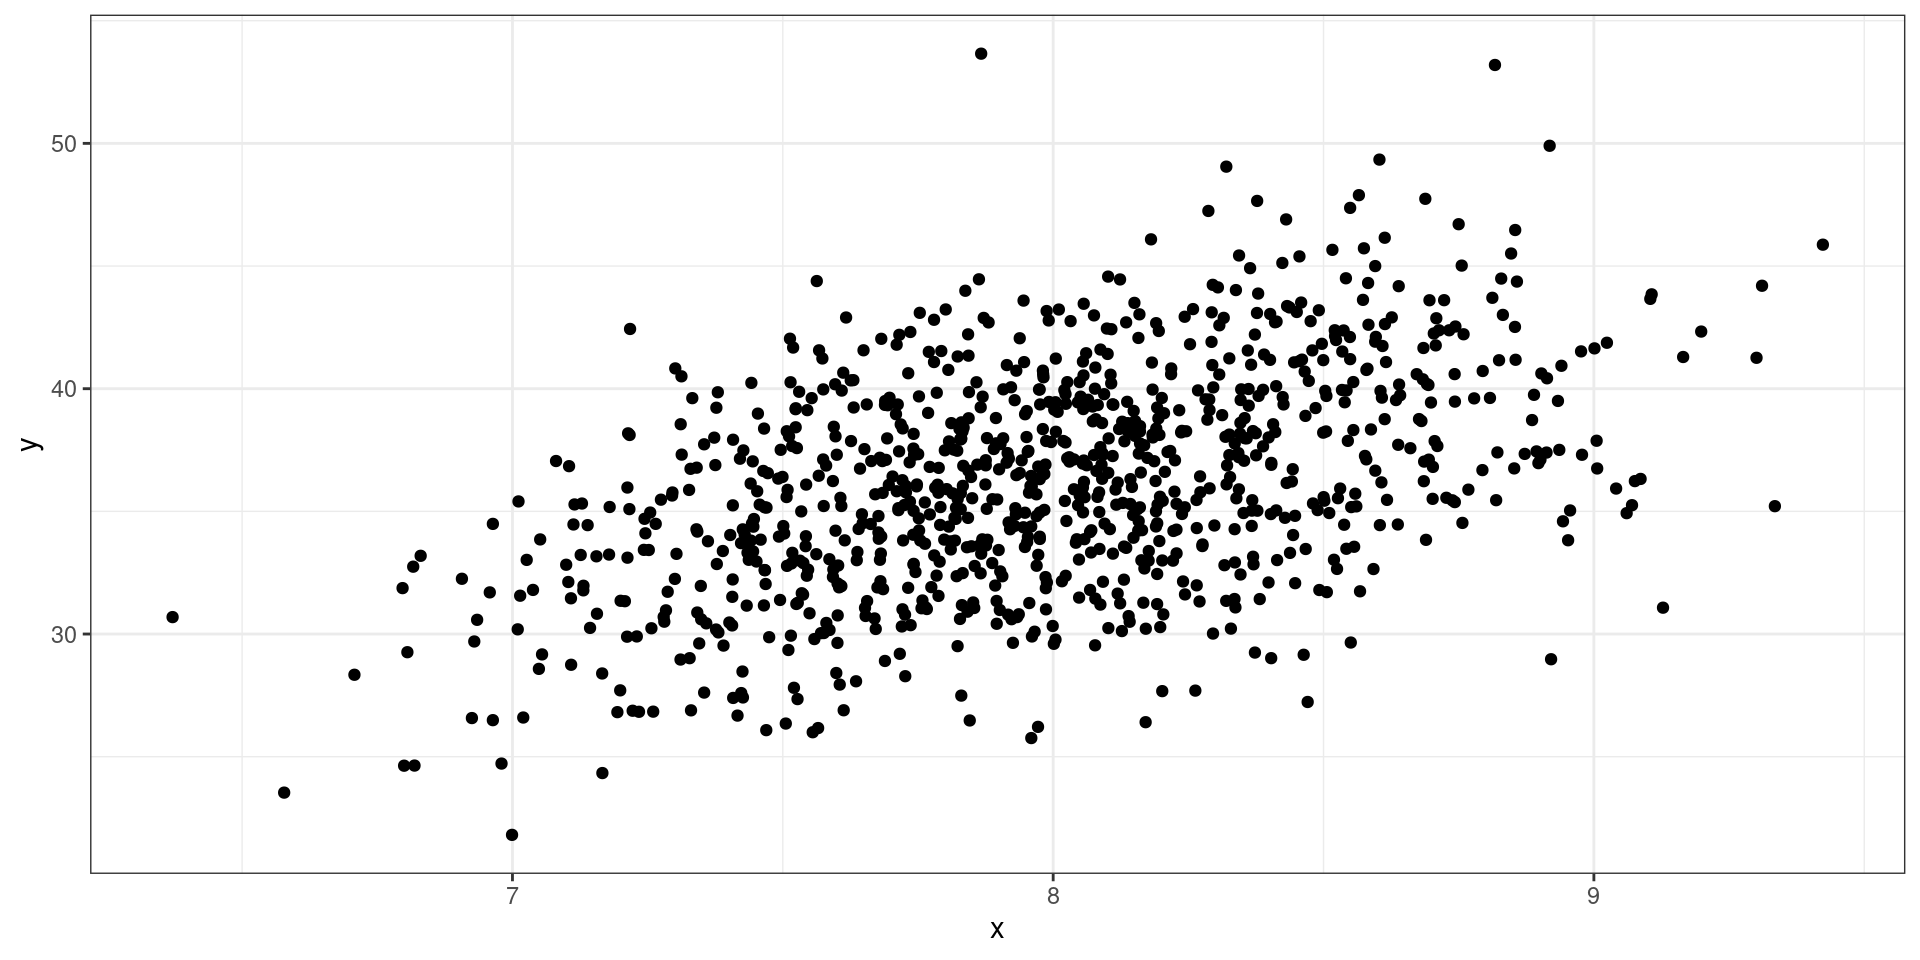
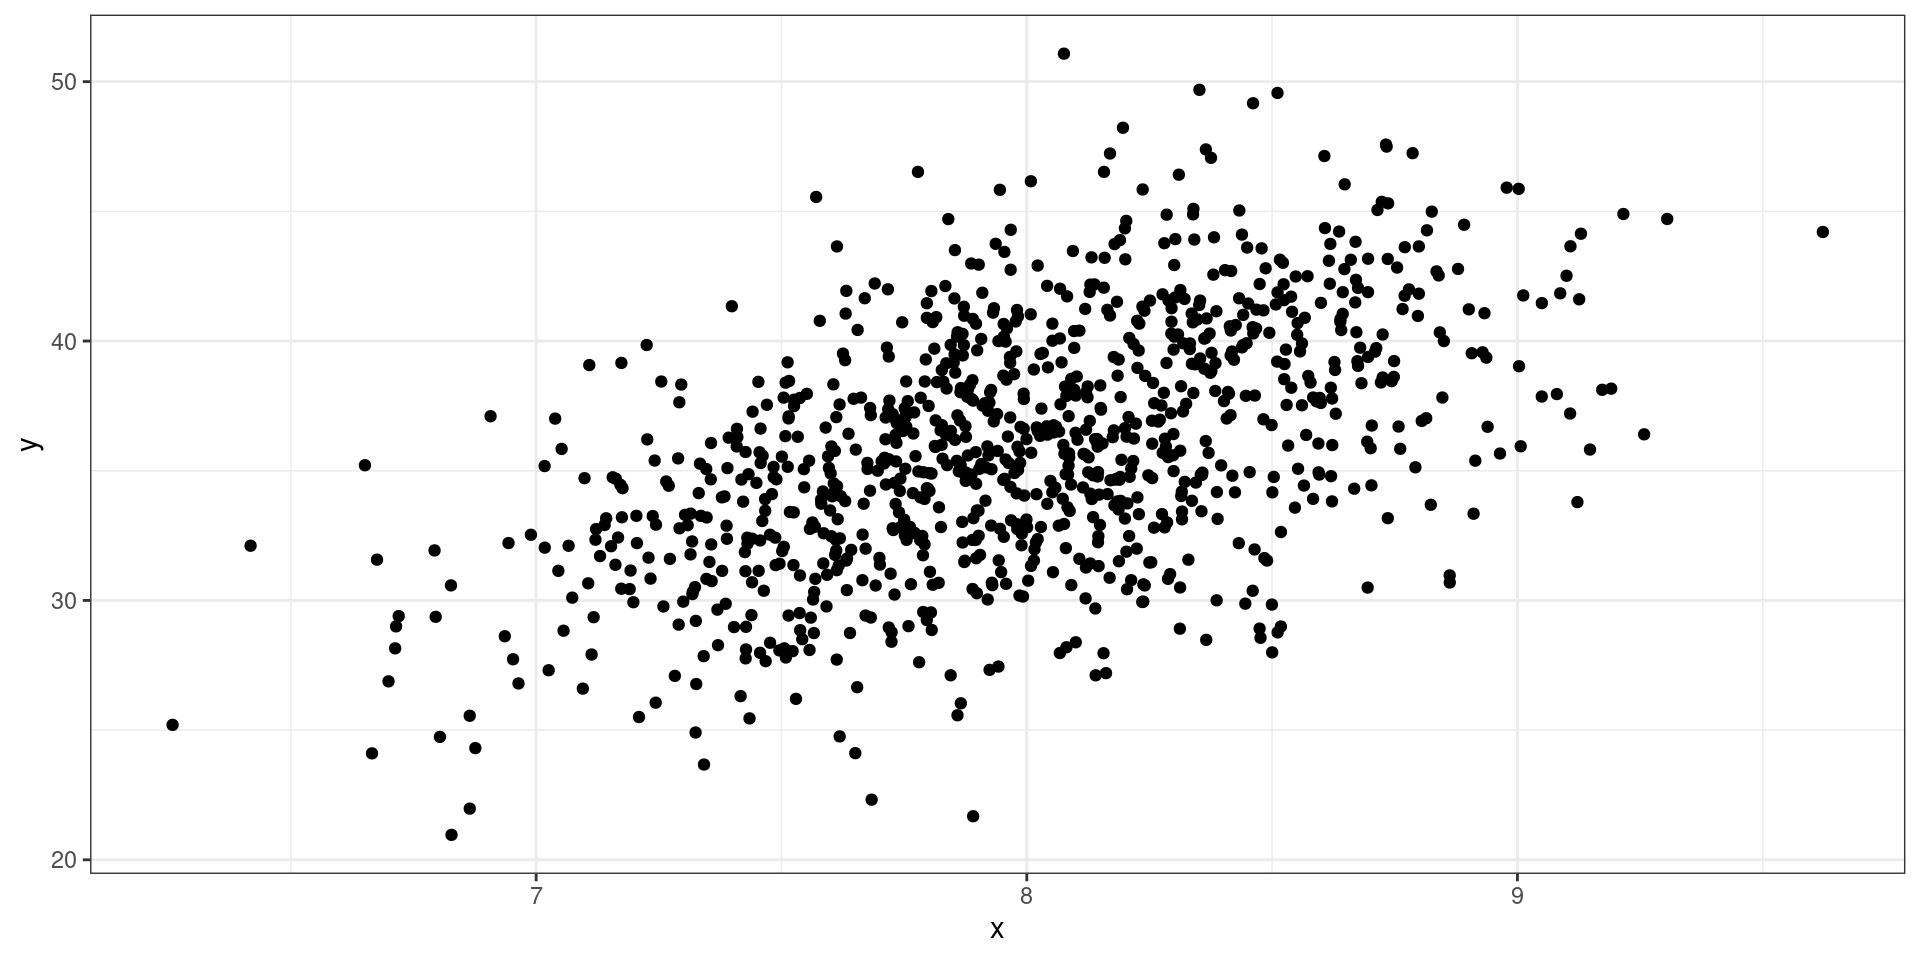
Updated Files

diff --git a/docs/lectures/2a.html b/docs/lectures/2a.html
@@ -545,7 +545,7 @@
   };
 
   // Store cell data
-  globalThis.qwebrCellDetails = [{"code":"letters\nletters[13]","options":{"context":"interactive"},"id":1},{"code":"x <- matrix(1:40, nrow = 4)","options":{"context":"interactive"},"id":2},{"code":"mtcars[,\"mpg\"]","options":{"context":"interactive"},"id":3},{"code":"toy_list <- list(x = letters,\n                 y = mtcars,\n                 z = list(x = diag(rep(1, 5),\n                          y = matrix(1:40, nrow = 5),\n                          z = band_members)))","options":{"context":"interactive"},"id":4},{"code":"4 > 1:8\n\n1:8 > 4","options":{"context":"interactive"},"id":5},{"code":"x <- sample(-10:10,1)\nif (x > 0){\n  print(\"Positive\")\n}\nprint(x)","options":{"context":"interactive"},"id":6},{"code":"x <- sample(-10:10,1)\nif (x > 0 ){\n  print(\"Positive\")\n} else {\n  print(\"Non-positive\")\n} \nprint(x)","options":{"context":"interactive"},"id":7},{"code":"x <- sample(-10:10,1)\nif (x > 0 ){\n  print(\"Positive\")\n} else if (x == 0) {\n  print(\"Zero\")\n} else {\n  print(\"Negative\")\n}\nprint(x)","options":{"context":"interactive"},"id":8},{"code":"x <- sample(-10:10,1)\nif (x > 0 ){\n  stop(\"This is an error\")\n  print(\"Positive\")\n} else if (x == 0) {\n  print(\"Zero\")\n} else {\n  stop(\"This is an error\")\n  print(\"Negative\")\n}\nprint(x)","options":{"context":"interactive"},"id":9},{"code":"x <- sample(-10:10,1)\nif (x > 0 ){\n  try(stop(\"This is an error\"))\n  print(\"Positive\")\n} else if (x == 0) {\n  print(\"Zero\")\n} else {\n  try(stop(\"This is an error\"))\n  print(\"Negative\")\n}\nprint(x)","options":{"context":"interactive"},"id":10},{"code":"x <- sample(-10:10,1)\nif (x > 0 ){\n  try(stop(\"This is an error\"), silent = T)\n  print(\"Positive\")\n} else if (x == 0) {\n  print(\"Zero\")\n} else {\n  try(stop(\"This is an error\"), silent = T)\n  print(\"Negative\")\n}\nprint(x)","options":{"context":"interactive"},"id":11}];
+  globalThis.qwebrCellDetails = [{"id":1,"code":"letters\nletters[13]","options":{"context":"interactive"}},{"id":2,"code":"x <- matrix(1:40, nrow = 4)","options":{"context":"interactive"}},{"id":3,"code":"mtcars[,\"mpg\"]","options":{"context":"interactive"}},{"id":4,"code":"toy_list <- list(x = letters,\n                 y = mtcars,\n                 z = list(x = diag(rep(1, 5),\n                          y = matrix(1:40, nrow = 5),\n                          z = band_members)))","options":{"context":"interactive"}},{"id":5,"code":"4 > 1:8\n\n1:8 > 4","options":{"context":"interactive"}},{"id":6,"code":"x <- sample(-10:10,1)\nif (x > 0){\n  print(\"Positive\")\n}\nprint(x)","options":{"context":"interactive"}},{"id":7,"code":"x <- sample(-10:10,1)\nif (x > 0 ){\n  print(\"Positive\")\n} else {\n  print(\"Non-positive\")\n} \nprint(x)","options":{"context":"interactive"}},{"id":8,"code":"x <- sample(-10:10,1)\nif (x > 0 ){\n  print(\"Positive\")\n} else if (x == 0) {\n  print(\"Zero\")\n} else {\n  print(\"Negative\")\n}\nprint(x)","options":{"context":"interactive"}},{"id":9,"code":"x <- sample(-10:10,1)\nif (x > 0 ){\n  stop(\"This is an error\")\n  print(\"Positive\")\n} else if (x == 0) {\n  print(\"Zero\")\n} else {\n  stop(\"This is an error\")\n  print(\"Negative\")\n}\nprint(x)","options":{"context":"interactive"}},{"id":10,"code":"x <- sample(-10:10,1)\nif (x > 0 ){\n  try(stop(\"This is an error\"))\n  print(\"Positive\")\n} else if (x == 0) {\n  print(\"Zero\")\n} else {\n  try(stop(\"This is an error\"))\n  print(\"Negative\")\n}\nprint(x)","options":{"context":"interactive"}},{"id":11,"code":"x <- sample(-10:10,1)\nif (x > 0 ){\n  try(stop(\"This is an error\"), silent = T)\n  print(\"Positive\")\n} else if (x == 0) {\n  print(\"Zero\")\n} else {\n  try(stop(\"This is an error\"), silent = T)\n  print(\"Negative\")\n}\nprint(x)","options":{"context":"interactive"}}];
 
   </script>
   <script type="module">

diff --git a/docs/lectures/8a.html b/docs/lectures/8a.html
@@ -788,6 +788,14 @@ Y = 3 + 2X_1 + \epsilon
 <li><p><span class="math inline">\(X_1\sim N(8,1)\)</span></p></li>
 <li><p><span class="math inline">\(\epsilon\sim N(0, 2)\)</span></p></li>
 </ul>
+<div class="cell">
+<div class="sourceCode cell-code" id="cb21"><pre class="sourceCode numberSource r number-lines code-with-copy"><code class="sourceCode r"><span id="cb21-1"><a href="#cb21-1"></a>n <span class="ot">&lt;-</span> <span class="dv">1000</span></span>
+<span id="cb21-2"><a href="#cb21-2"></a>x <span class="ot">&lt;-</span> <span class="fu">rnorm</span>(n, <span class="dv">8</span>, <span class="at">sd =</span> <span class="dv">2</span>)</span>
+<span id="cb21-3"><a href="#cb21-3"></a>yp <span class="ot">&lt;-</span> <span class="dv">3</span> <span class="sc">+</span> <span class="dv">2</span> <span class="sc">*</span> x</span>
+<span id="cb21-4"><a href="#cb21-4"></a>err <span class="ot">&lt;-</span> <span class="fu">sapply</span>(yp, <span class="cf">function</span>(i){<span class="fu">rnorm</span>(<span class="dv">1</span>, <span class="at">sd =</span> <span class="fu">abs</span>(i)<span class="sc">^</span><span class="dv">2</span>)}) </span>
+<span id="cb21-5"><a href="#cb21-5"></a>y <span class="ot">&lt;-</span> yp <span class="sc">+</span> err</span>
+<span id="cb21-6"><a href="#cb21-6"></a>df <span class="ot">&lt;-</span> <span class="fu">tibble</span>(x, y)</span></code><button title="Copy to Clipboard" class="code-copy-button"><i class="bi"></i></button></pre></div>
+</div>
 </section>
 <section id="fit-model-1" class="slide level2">
 <h2>Fit Model</h2>
@@ -811,6 +819,12 @@ Y = 3 + 2X_1 + \epsilon
 <li><p><span class="math inline">\(X_1\sim N(8,1)\)</span></p></li>
 <li><p><span class="math inline">\(\epsilon\sim Gamma(2, 1)\)</span></p></li>
 </ul>
+<div class="cell">
+<div class="sourceCode cell-code" id="cb22"><pre class="sourceCode numberSource r number-lines code-with-copy"><code class="sourceCode r"><span id="cb22-1"><a href="#cb22-1"></a>n <span class="ot">&lt;-</span> <span class="dv">1000</span></span>
+<span id="cb22-2"><a href="#cb22-2"></a>x <span class="ot">&lt;-</span> <span class="fu">rnorm</span>(n, <span class="dv">8</span>, <span class="at">sd =</span> <span class="dv">2</span>)</span>
+<span id="cb22-3"><a href="#cb22-3"></a>y <span class="ot">&lt;-</span> <span class="dv">3</span> <span class="sc">+</span> <span class="dv">2</span> <span class="sc">*</span> x <span class="sc">+</span> <span class="fu">rgamma</span>(n, <span class="dv">2</span>)</span>
+<span id="cb22-4"><a href="#cb22-4"></a>df <span class="ot">&lt;-</span> <span class="fu">tibble</span>(x, y)</span></code><button title="Copy to Clipboard" class="code-copy-button"><i class="bi"></i></button></pre></div>
+</div>
 </section>
 <section id="fit-model-2" class="slide level2">
 <h2>Fit Model</h2>

diff --git a/docs/lectures/1b.html b/docs/lectures/1b.html
@@ -545,7 +545,7 @@
   };
 
   // Store cell data
-  globalThis.qwebrCellDetails = [{"options":{"context":"interactive"},"id":1,"code":""},{"options":{"context":"interactive"},"id":2,"code":""},{"options":{"context":"interactive"},"id":3,"code":""},{"options":{"context":"interactive"},"id":4,"code":""},{"options":{"context":"interactive"},"id":5,"code":""}];
+  globalThis.qwebrCellDetails = [{"id":1,"options":{"context":"interactive"},"code":""},{"id":2,"options":{"context":"interactive"},"code":""},{"id":3,"options":{"context":"interactive"},"code":""},{"id":4,"options":{"context":"interactive"},"code":""},{"id":5,"options":{"context":"interactive"},"code":""}];
 
   </script>
   <script type="module">
